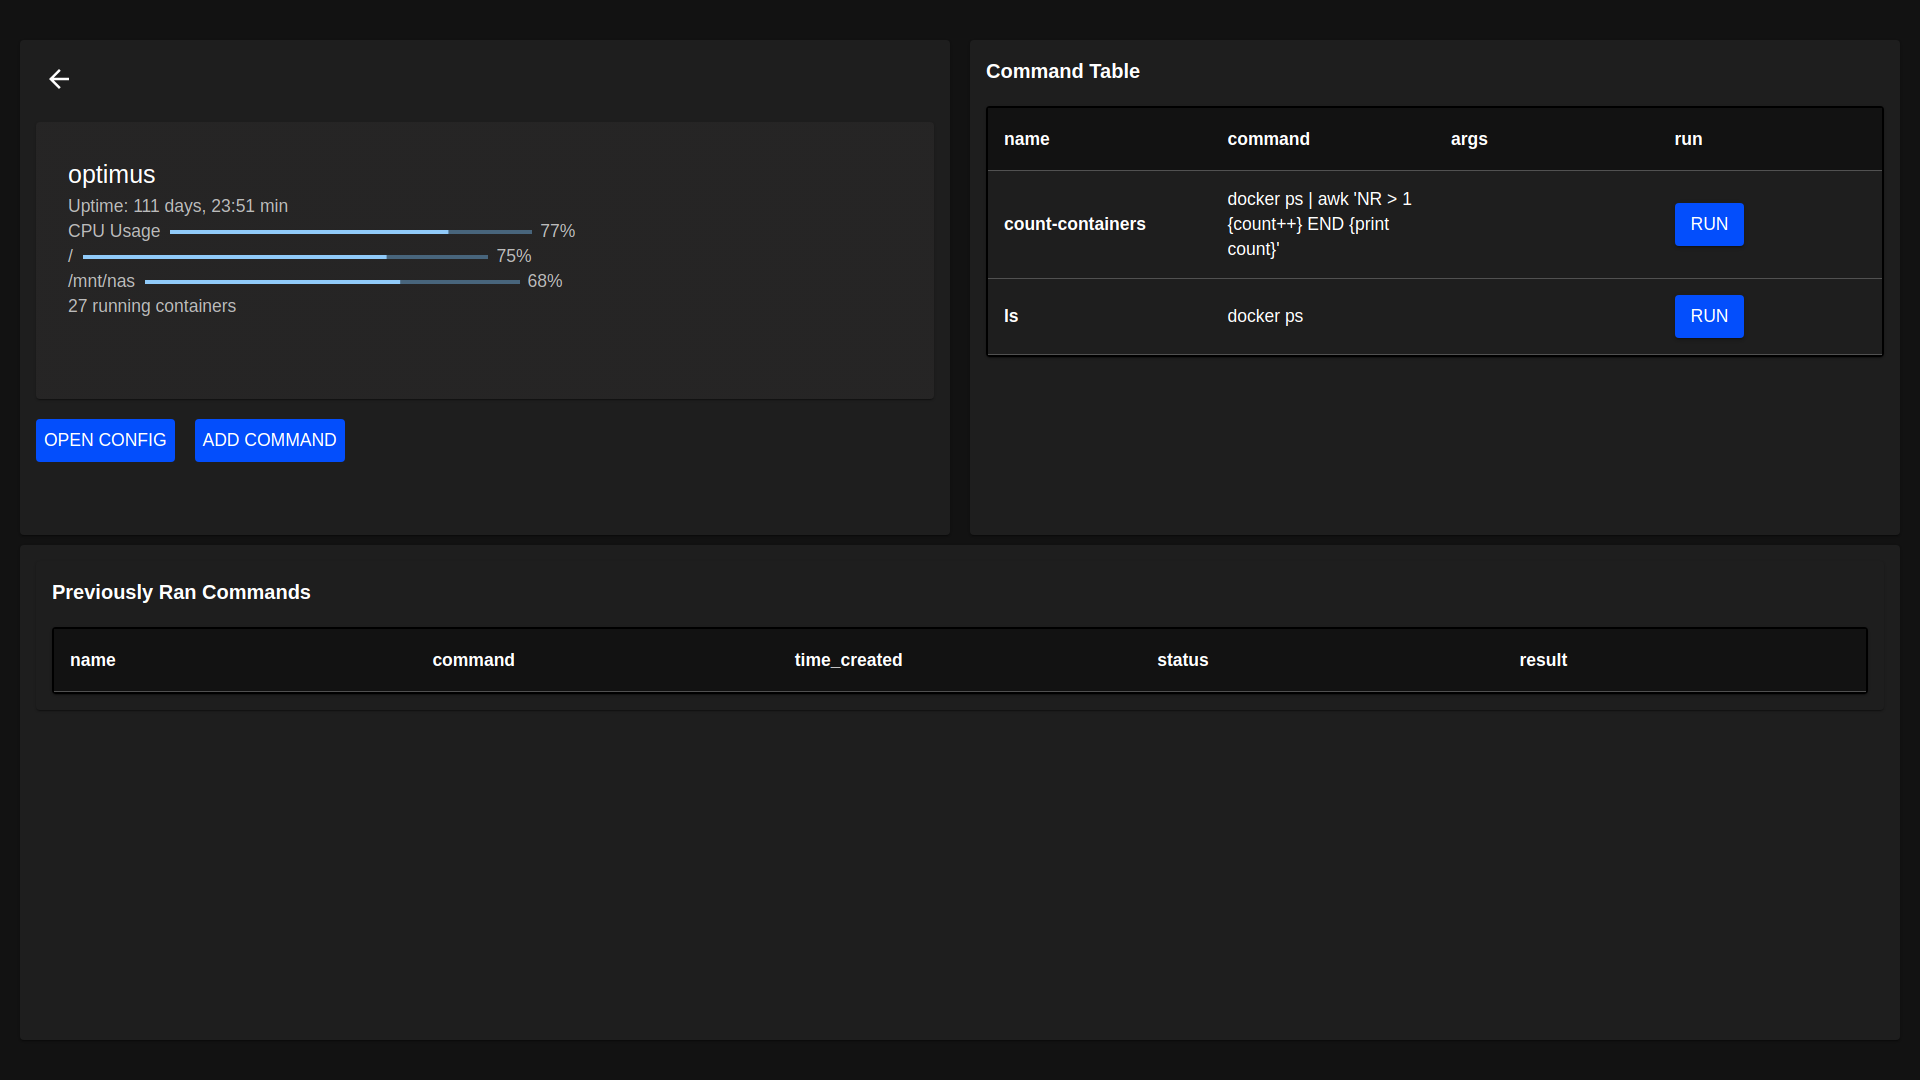
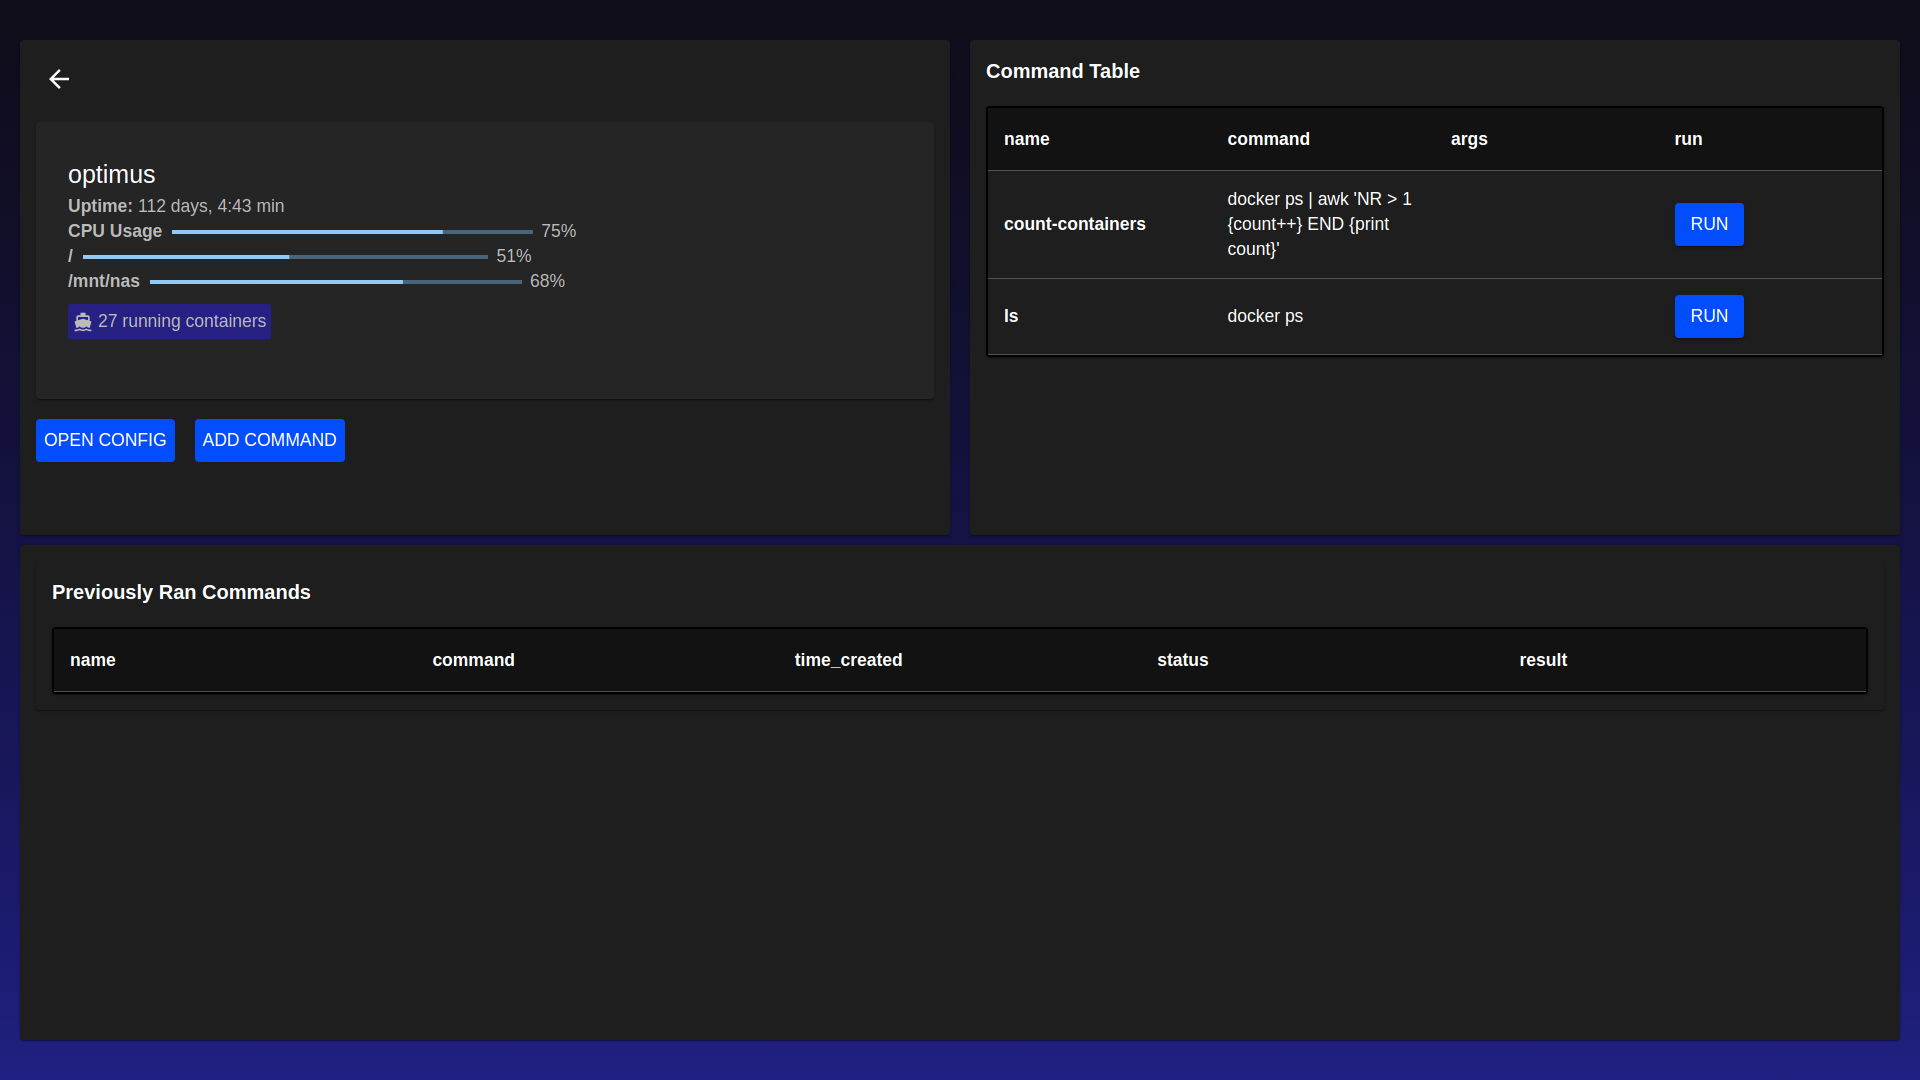
docs: update README

diff --git a/README.md b/README.md
@@ -1,17 +1,14 @@
 # Server Manager
 
-Custom built server manager/dashboard. Easily configure hosts and commands using `.yaml` files.
-
-## Coming Soon
-
-Docker app integrations, with an API for easily building custom widgets.
+Custom built server manager/dashboard. Easily configure hosts and commands using `.yaml` files. Integrates with self-hosted app integrations such as: Arr stack, Jellyfin, etc.
 
 ## Features
 
 ### Dashboard
 
-- View CPU usage and storage usage
+- View CPU usage, storage usage, and running container counts
 - Run commands on multiple hosts
+- Docker app integrations
 
 ![main_page](https://github.com/jaypyles/dashboard/blob/master/docs/main_page.png)
 
